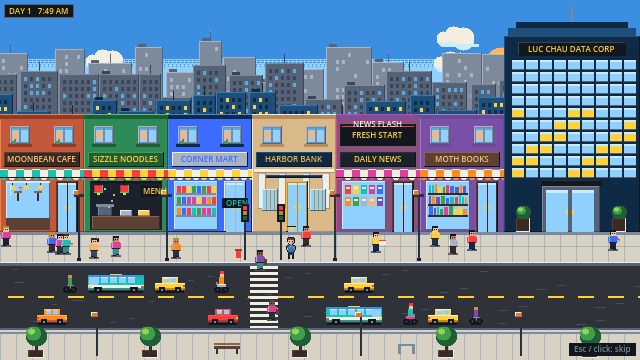
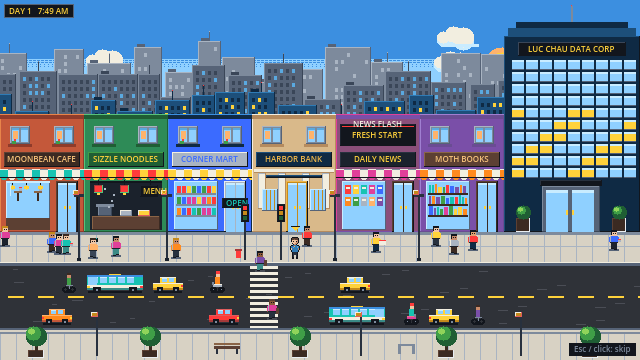
T-022: handoff, screenshots, ending minimap hidden

diff --git a/TASKS.md b/TASKS.md
@@ -737,6 +737,20 @@ Kết quả chạy thật (worktree, Godot 4.7.2 console):
 - Hạn chế/duyệt: font mặc định chưa phải font pixel; mũi tên coach là đường mảnh vẽ chồng lên cửa sổ; tutorial chỉ có chuỗi English; một cửa sổ app mỗi lần (không kéo, không chồng) nên người chơi phải chuyển qua lại giữa Browser và Code Pad (đã thêm nút Verify in Code Pad trong card mở rộng và tray); claim arrow dựa trên từ khóa headline nên một số headline không có mũi tên; không có sparkline. Palette v3 và art overhaul để T-022. Console có cảnh báo môi trường user://logs/cache shader như các lượt trước.
 
 
-### T-022 | Claude subagent (thay Codex) | 2026-11-10 | In progress
+### T-022 | Claude subagent (thay Codex) | 2026-11-10 | Review
 
 - Art overhaul theo feedback VU: palette v3 (additive, không sửa CLAUDE.md, chỉ có đề xuất), cảnh đi làm qua thành phố, văn phòng nhiều phòng ban, màu sinh động. Spec: game-studio/godot/docs/SPEC-T-022.md. Nhánh codex/T-022. Có luật chống treo (dừng sau 2 lần sửa cùng test lỗi).
+
+
+### T-022 handoff | Claude subagent (thay Codex) | 2026-11-10 | Review
+
+- Nhánh codex/T-022 (từ v2), commit nhỏ, không push/merge/mạng. Không sửa CLAUDE.md, scripts/ui, scripts/sim, scripts/world, cards/events/config/world.json, project.godot (git diff v2 rỗng cho các đường dẫn này). balance_sim/balance_world không đổi vì không đụng sim/world (không chạy lại).
+- Palette v3: 64 màu (32 màu v2 giữ nguyên thứ tự + 32 mới: trời ngày/hoàng hôn/âm u, gạch/cam, lá, da, accent đỏ-vàng-teal-magenta-cam-cobalt, thảm văn phòng, nhựa đường). Files: shared/style-bible/palette-v3.json và pixel-office-v3.md, data/palette_v3.json, scripts/v2/palette.gd (bảng chữ 64 ký tự), tools/check_palette.gd (bản sao shared khớp, superset của v2, không trùng màu, mọi PNG chỉ dùng màu v3 và alpha nhị phân). Đề xuất sửa CLAUDE.md mục 4 ở docs/PROPOSAL-CLAUDE-MD-palette-v3.md (VU duyệt, chưa sửa CLAUDE.md).
+- Cảnh đi làm (mới): scripts/v2/commute_scene.gd, scenes/v2/commute.tscn, scripts/v2/pen.gd (helper vẽ dùng chung). Đường phố 640x360 vẽ bằng mã: 3 lớp skyline parallax, mây trôi, 6 cửa hàng có biển (MOONBEAN CAFE, SIZZLE NOODLES, CORNER MART, HARBOR BANK, DAILY NEWS, MOTH BOOKS), tòa nhà LUC CHAU, xe hơi/bus/xe máy/xe đạp với đèn giao thông (xe dừng trước vạch, không chồng xe), người đi bộ nhiều trang phục, người băng đường khi đèn đỏ, cây, cột đèn, hơi nước quán mì, bảng OPEN nhấp nháy. Người chơi có mũi tên vàng, đi vào cửa tòa nhà (~7 s); Esc/Enter/Space/click bỏ qua; phát tín hiệu finished đúng 1 lần. Tâm trạng chỉ theo giá trị công khai (số ngày và trust công khai): day>=5 hoặc trust<=35 âm u; day>=8 hoặc trust<=20 u ám, mưa, ít xe; day>=4 biển CLOSING SALE ở hiệu sách; day>=6 hàng chờ ở ngân hàng; bảng tin DAILY NEWS đổi theo ngày; cafe ghi CLOSED các ngày cuối. Flow: game_flow.gd có commute_enabled (mặc định true) và skip_commute(); commute chạy trong trạng thái DAY_START trước văn phòng nên thứ tự trạng thái không đổi; skip_intro() cũng bỏ qua commute.
+- Văn phòng nhiều phòng (viết lại office.gd, thêm office_art.gd): thế giới 1280x560, camera 640x360 mặc định ở phòng Data Analytics (bàn người chơi, DeskButton, hộp thoại, API cũ giữ nguyên). 9 phòng có vách kính và cửa: Data Analytics (4 bàn: You, Khoi, Mai, Tu, dashboard, bàn phân tích, máy in), Finance (2 bàn, biểu đồ, két), Marketing (2 bàn, moodboard, giá vẽ, sofa), Sales (3 bàn, bảng chỉ tiêu, một người gọi điện có bong bóng), Executive (Ms. Hanh sau bàn lớn), Reception (lễ tân, quầy, sofa, logo), Meeting (bàn kính, bảng trắng có biểu đồ, 2 người họp), Server room (4 rack LED nhấp nháy), Break room (máy cà phê có hơi, tủ lạnh, máy bán hàng, sofa), hành lang có thảm. NPC gõ phím và chớp mắt, 3 người đi dọc hành lang, bảng tên phòng và tên bàn. Minimap góc trên phải (bấm để chuyển phòng), phím Tab chuyển phòng, show_room() và pan_to(). Khi sếp xuất hiện camera về phòng Data, Ms. Hanh rời phòng Executive tới cửa. Phản ứng Khoi và popup tiền nằm ở màn review (không đổi, test_v2_popups vẫn qua).
+- Màu sống động: desktop có wallpaper thành phố hoàng hôn (scripts/v2/city_art.gd; dock và home panel mờ để thấy nền), tiêu đề có skyline và tòa nhà công ty, màn review có nền thành phố, màn kết thúc dùng văn phòng nhiều phòng (đã ẩn minimap). Icon app và thumbnail tin giữ nguyên (đã đúng v3).
+- 14 sprite nhân viên mới (tools/sprites/characters.gd ROSTER: rin, bao, linh, dat, an, vy, sam, ngoc, ops, lead, intern, kai, mei, pat). gen_sprites 63 dải, check_palette PASS 63 PNG / 64 màu.
+- Kiểm thử thật (Godot 4.7.2 console): test_v2_commute (mới, headless) 621/0 gồm palette v3 (64 màu, superset v2, alphabet, bản sao shared), mọi texture thủ tục chỉ dùng màu v3 và alpha nhị phân, commute chạy N khung và kết thúc 1 tín hiệu trong 6-9 s, skip bằng gọi/Esc/click, đèn giao thông đủ xanh và đỏ và không xe nào vượt đèn đỏ, xe cùng làn không chồng, mood theo day/trust, CLOSING và hàng chờ chỉ ngày muộn, flow đầy đủ commute -> office -> desktop -> review tới kết thúc, 9 phòng và số NPC từng phòng (4/2/2/3/1/1/2/1/1), 11 bàn không chồng nhau và nằm trong phòng, camera/minimap/Tab/pan, leak probe (mã mới không đọc truth/root_cause/review/states, flow chỉ truyền day và trust công khai, chữ hiển thị chỉ ASCII tiếng Anh). Các test khác: test_v2_flow 1.424/0, test_v2_popups 228/0, test_v2_t021 311/0, test_v2_desktop 4.344/0, test_sim 2.634/0, test_ui 134/0, test_world đầy đủ 32.511/0, test_v2_assets 476/0, test_v2_layout_render (không headless) 5.096/0, test_v2_mouse (không headless, chuột thật) 143/0, test_v2_screens_render (không headless) 10.052/0 với 51 màn và 1.536 control.
+- Kiểm tra đã đổi: test_v2_assets: kiểm kê thêm 14 sprite; số kiểm tra giảm từ 2.278 xuống 476 vì văn phòng cũ có ~400 node ô gạch (mỗi node bị kiểm hai lần), văn phòng mới là một texture nền nên ít node hơn (không xóa kiểm tra nào). test_v2_flow: new_flow() đặt commute_enabled=false để các test cũ giữ nguyên, commute được kiểm riêng trong test_v2_commute. test_v2_mouse: sau Play kiểm commute rồi bấm chuột bỏ qua (cả ngày 2), ảnh ghi vào docs/screenshots-T-022. test_v2_screens_render: thêm màn commute-day1, commute-day9, office của 9 phòng (40 -> 51 màn), ảnh TEMP đổi tiền tố T-022. Quét mã của test_v2_desktop cấm từ "kind" trong scripts/v2 nên mã mới dùng tên "variety". Wallpaper và backdrop gắn meta "overlay" để bài kiểm tra anh em chồng nhau bỏ qua (như ColorRect nền trước đây).
+- Ảnh chụp (game-studio/godot/docs/screenshots-T-022/): after/T-022-commute-day1.png, after/T-022-commute-day9.png (khủng hoảng: âm u, mưa, CLOSING SALE, hàng chờ), after/T-022-office-{data,finance,marketing,executive,reception,sales,meeting,server,break}.png, after/T-022-day-start-boss.png, after/T-022-work-home.png (wallpaper), after/T-022-title.png, after/T-022-review-day1-step1.png, after/T-022-ending-{survived,fired}.png; before/before-{title,day-start-boss,work-home,review-day1-step1,ending-survived}.png (bản v2) để so sánh; ảnh chuột thật (desktop, mail, tutorial) ở thư mục gốc screenshots-T-022. Đã xem ảnh thật (commute, các phòng, title, desktop, ending); rõ ràng phong phú hơn v2 (v2 chỉ có một phòng nâu với 4 bàn, nền thành phố đơn sắc).
+- Hạn chế: (1) ảnh trước/sau chỉ có 5 màn so sánh; (2) font mặc định cỡ 8 nên vài biển phải rút ngắn tên (HARBOR BANK, MOTH BOOKS); (3) hộp thoại sếp che hành lang phía dưới; (4) NPC chỉ đi dọc hành lang, chưa đi qua cửa vào từng phòng; (5) màn kết thúc vẫn dùng văn phòng làm nền (city_art có sẵn nền ending_good/ending_bad nhưng chưa nối vào); (6) icon app và thumbnail tin chưa vẽ lại; (7) commute chỉ dùng day và trust công khai, không biến thể theo cú sốc cụ thể (cố ý, để không lộ sự thật ẩn); (8) palette 64 màu cần VU duyệt đổi CLAUDE.md (docs/PROPOSAL-CLAUDE-MD-palette-v3.md).
